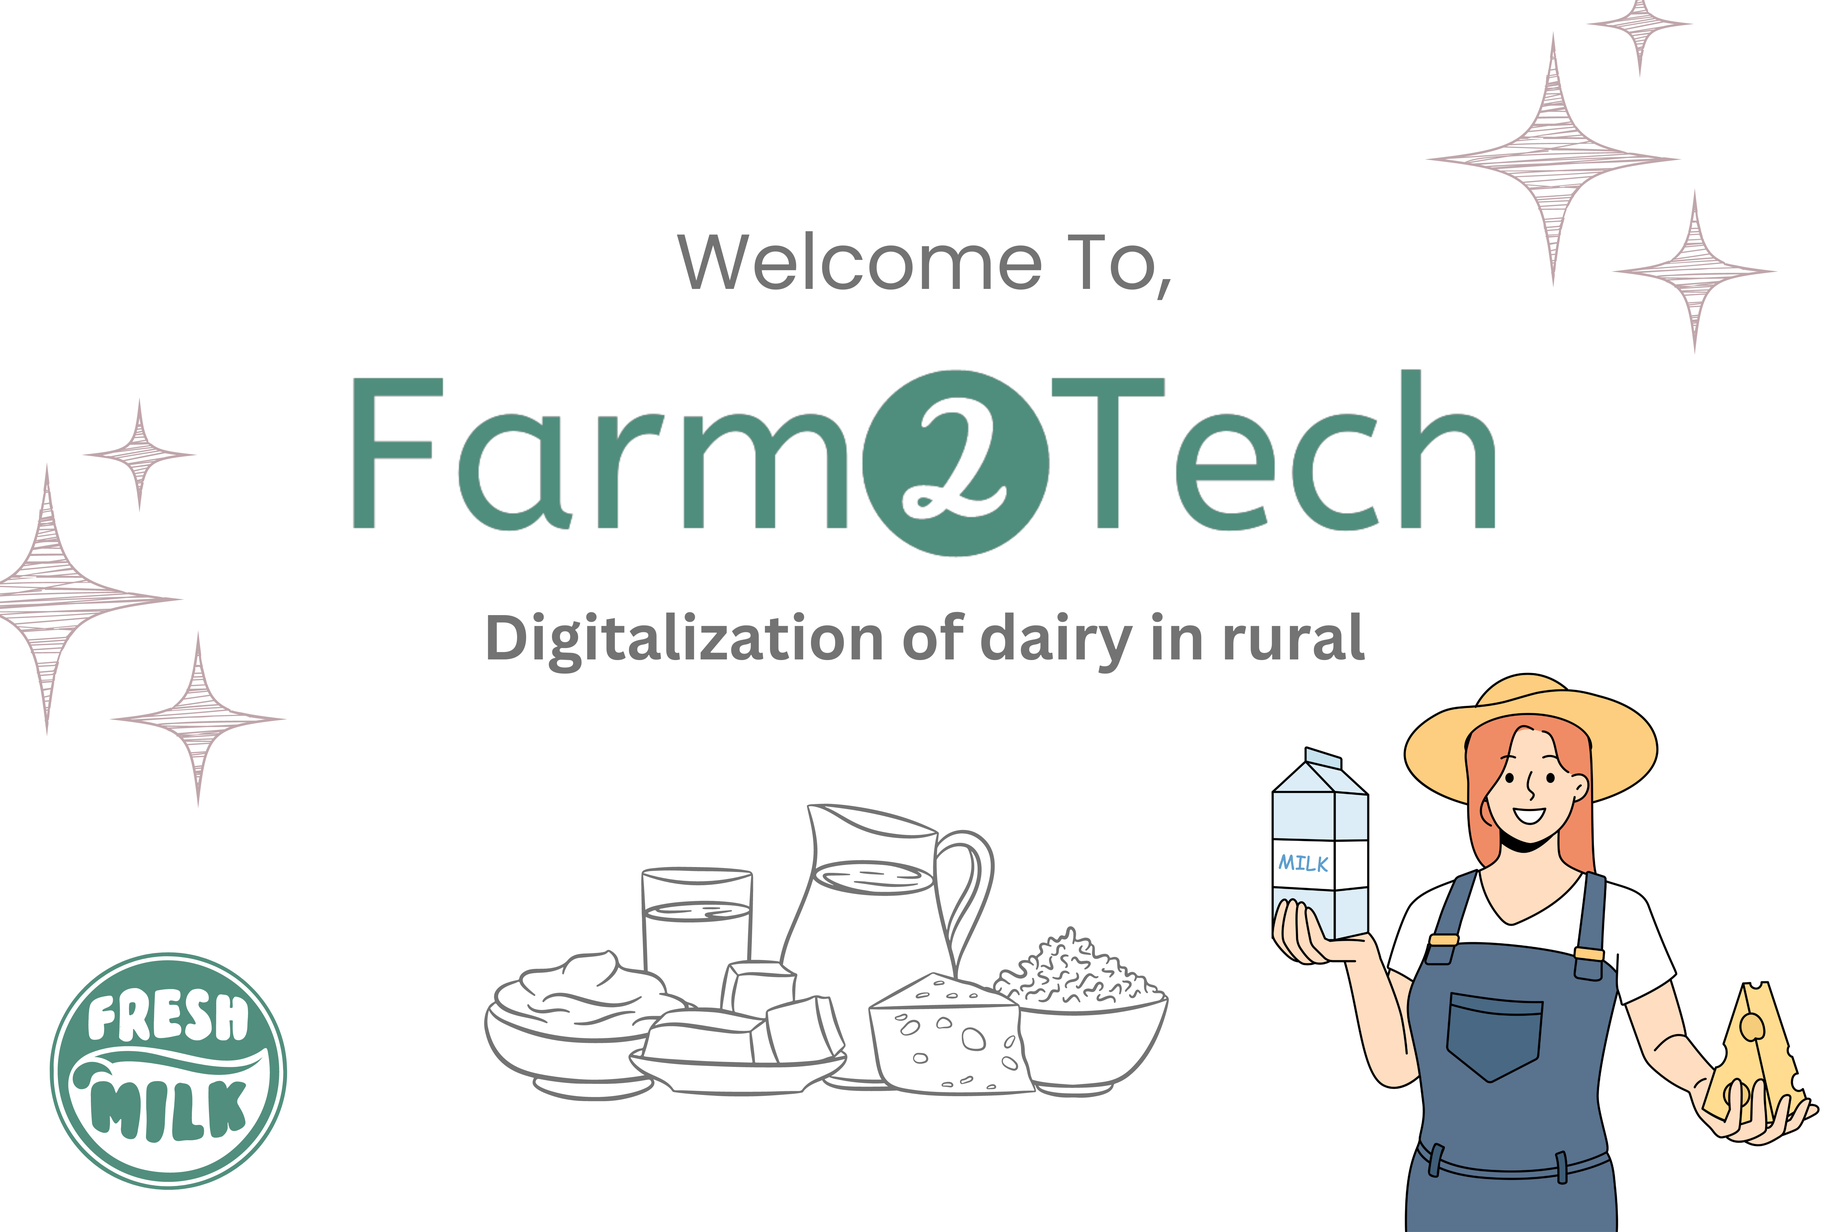
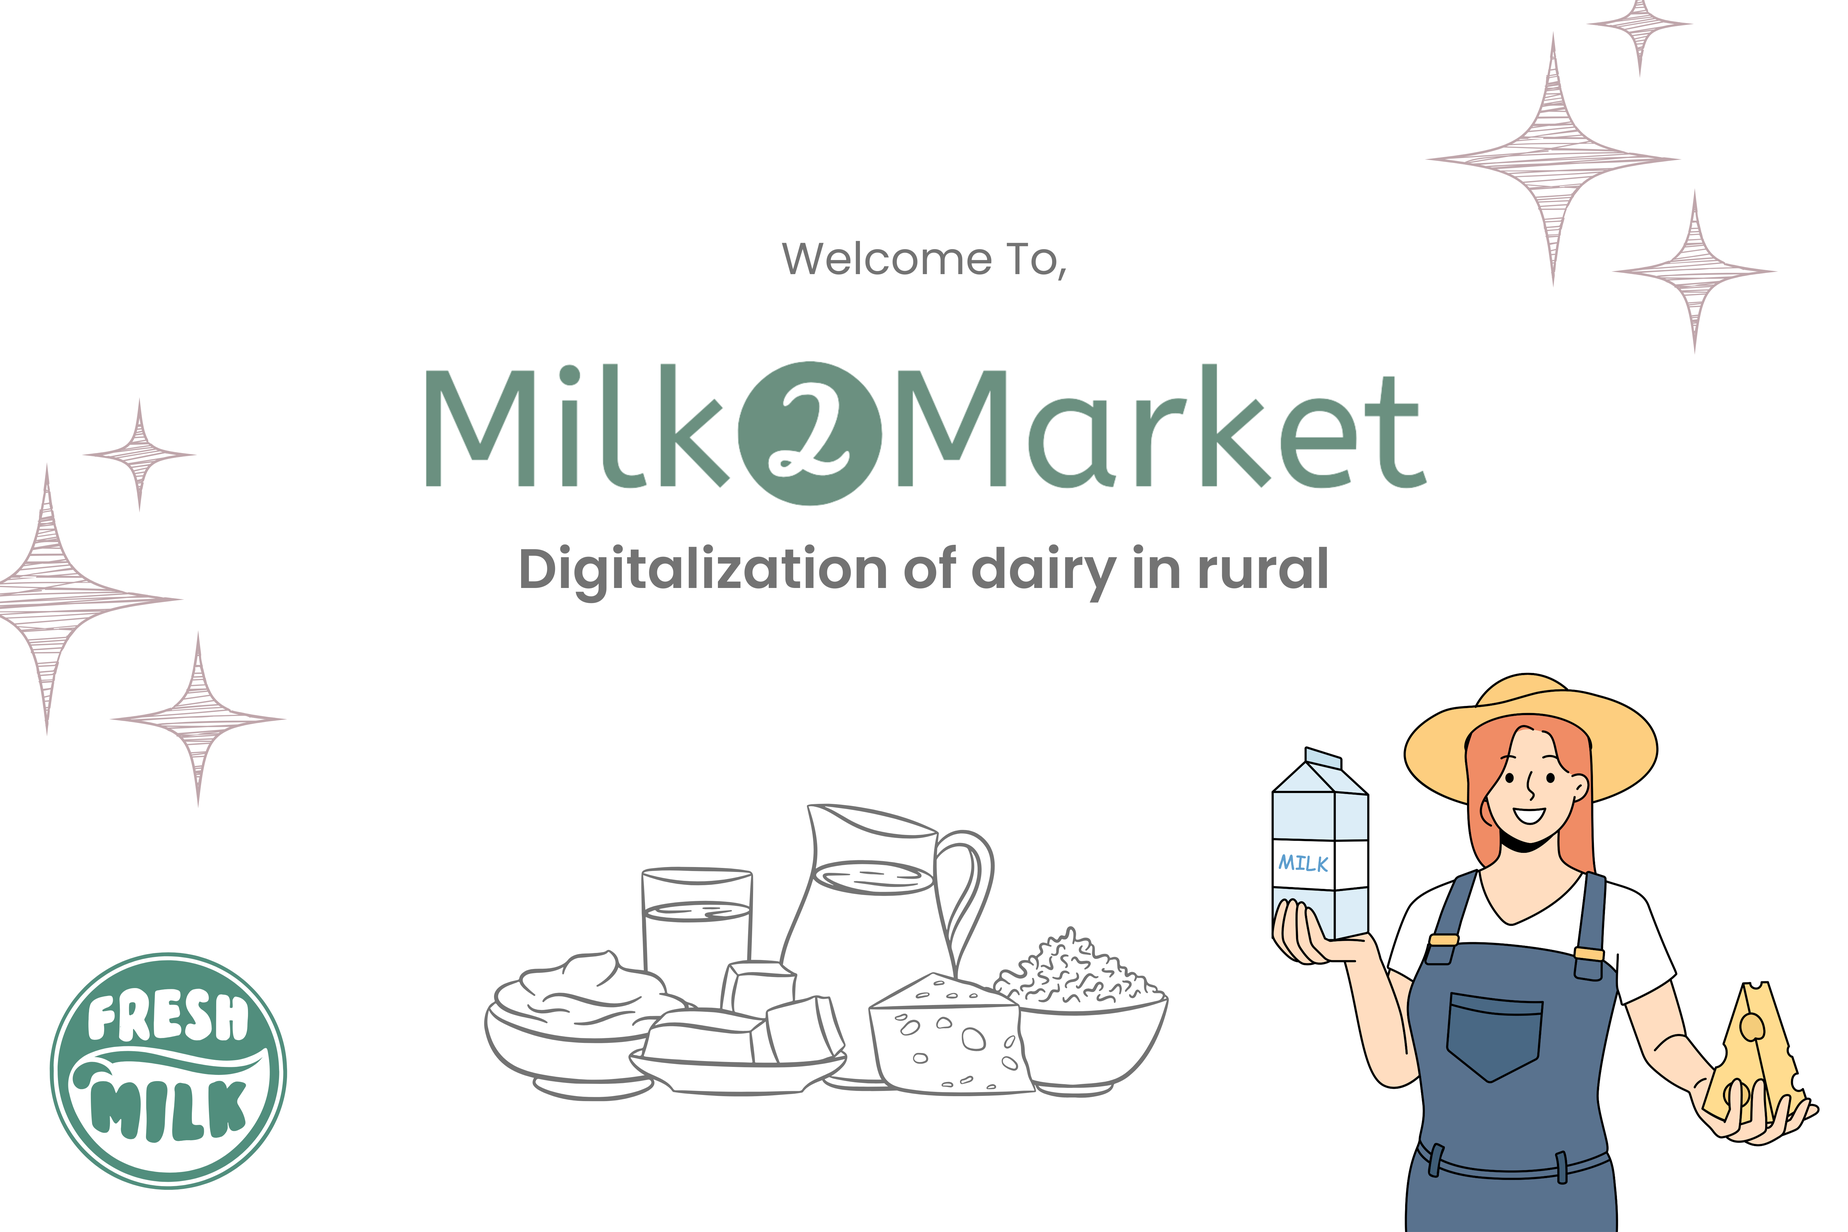
updt: change name from farm2tech -> milk2market

Changed region(s): [[0.187, 0.2812, 0.8103, 0.5625], [0.3428, 0.1875, 0.6233, 0.25]]

diff --git a/App/components/ProductCard/ProductDisplayInfoContent.js b/App/components/ProductCard/ProductDisplayInfoContent.js
@@ -6,9 +6,9 @@ export const productDisplayInfoData = [
     litre: 1,
     price: 40,
     description:
-      "Experience dairy perfection with our fresh milk. From wholesome milk to delectable dairy treats, we've got your cravings covered. Vist us for the the finest in Farm2Tech!",
+      "Experience dairy perfection with our fresh milk. From wholesome milk to delectable dairy treats, we've got your cravings covered. Vist us for the the finest in Milk2Market!",
     declaimer:
-      "Discover pure delight with our handpicked selection of premium milk products. Our commitment to quality ensures that you and your family receive only the freshest and finest dairy goodness. From classic milk cartoons to an array of Farm2Tech, our shelves are stocked with products that elevate your taste experience. Taste the difference that quality makes - visit our store today and savor the essence of Farm2Tech!",
+      "Discover pure delight with our handpicked selection of premium milk products. Our commitment to quality ensures that you and your family receive only the freshest and finest dairy goodness. From classic milk cartoons to an array of Milk2Market, our shelves are stocked with products that elevate your taste experience. Taste the difference that quality makes - visit our store today and savor the essence of Milk2Market!",
   },
   {
     id: 2,
@@ -17,9 +17,9 @@ export const productDisplayInfoData = [
     litre: 2,
     price: 50,
     description:
-      "Experience dairy perfection with our fresh ghee. From wholesome milk to delectable dairy treats, we've got your cravings covered. Vist us for the the finest in Farm2Tech!",
+      "Experience dairy perfection with our fresh ghee. From wholesome milk to delectable dairy treats, we've got your cravings covered. Vist us for the the finest in Milk2Market!",
     declaimer:
-      "Discover pure delight with our handpicked selection of premium milk products. Our commitment to quality ensures that you and your family receive only the freshest and finest dairy goodness. From classic milk cartoons to an array of Farm2Tech, our shelves are stocked with products that elevate your taste experience. Taste the difference that quality makes - visit our store today and savor the essence of Farm2Tech!",
+      "Discover pure delight with our handpicked selection of premium milk products. Our commitment to quality ensures that you and your family receive only the freshest and finest dairy goodness. From classic milk cartoons to an array of Milk2Market, our shelves are stocked with products that elevate your taste experience. Taste the difference that quality makes - visit our store today and savor the essence of Milk2Market!",
   },
   {
     id: 3,
@@ -28,9 +28,9 @@ export const productDisplayInfoData = [
     litre: 1,
     price: 120,
     description:
-      "Experience dairy perfection with our fresh paneer. From wholesome milk to delectable dairy treats, we've got your cravings covered. Vist us for the the finest in Farm2Tech!",
+      "Experience dairy perfection with our fresh paneer. From wholesome milk to delectable dairy treats, we've got your cravings covered. Vist us for the the finest in Milk2Market!",
     declaimer:
-      "Discover pure delight with our handpicked selection of premium milk products. Our commitment to quality ensures that you and your family receive only the freshest and finest dairy goodness. From classic milk cartoons to an array of Farm2Tech, our shelves are stocked with products that elevate your taste experience. Taste the difference that quality makes - visit our store today and savor the essence of Farm2Tech!",
+      "Discover pure delight with our handpicked selection of premium milk products. Our commitment to quality ensures that you and your family receive only the freshest and finest dairy goodness. From classic milk cartoons to an array of Milk2Market, our shelves are stocked with products that elevate your taste experience. Taste the difference that quality makes - visit our store today and savor the essence of Milk2Market!",
   },
   {
     id: 4,
@@ -39,9 +39,9 @@ export const productDisplayInfoData = [
     litre: 2,
     price: 100,
     description:
-      "Experience dairy perfection with our fresh yougurt. From wholesome milk to delectable dairy treats, we've got your cravings covered. Vist us for the the finest in Farm2Tech!",
+      "Experience dairy perfection with our fresh yougurt. From wholesome milk to delectable dairy treats, we've got your cravings covered. Vist us for the the finest in Milk2Market!",
     declaimer:
-      "Discover pure delight with our handpicked selection of premium milk products. Our commitment to quality ensures that you and your family receive only the freshest and finest dairy goodness. From classic milk cartoons to an array of Farm2Tech, our shelves are stocked with products that elevate your taste experience. Taste the difference that quality makes - visit our store today and savor the essence of Farm2Tech!",
+      "Discover pure delight with our handpicked selection of premium milk products. Our commitment to quality ensures that you and your family receive only the freshest and finest dairy goodness. From classic milk cartoons to an array of Milk2Market, our shelves are stocked with products that elevate your taste experience. Taste the difference that quality makes - visit our store today and savor the essence of Milk2Market!",
   },
   {
     id: 5,
@@ -50,9 +50,9 @@ export const productDisplayInfoData = [
     litre: 2,
     price: 200,
     description:
-      "Experience dairy perfection with our fresh milk. From wholesome milk to delectable dairy treats, we've got your cravings covered. Vist us for the the finest in Farm2Tech!",
+      "Experience dairy perfection with our fresh milk. From wholesome milk to delectable dairy treats, we've got your cravings covered. Vist us for the the finest in Milk2Market!",
     declaimer:
-      "Discover pure delight with our handpicked selection of premium milk products. Our commitment to quality ensures that you and your family receive only the freshest and finest dairy goodness. From classic milk cartoons to an array of Farm2Tech, our shelves are stocked with products that elevate your taste experience. Taste the difference that quality makes - visit our store today and savor the essence of Farm2Tech!",
+      "Discover pure delight with our handpicked selection of premium milk products. Our commitment to quality ensures that you and your family receive only the freshest and finest dairy goodness. From classic milk cartoons to an array of Milk2Market, our shelves are stocked with products that elevate your taste experience. Taste the difference that quality makes - visit our store today and savor the essence of Milk2Market!",
   },
   {
     id: 6,
@@ -61,9 +61,9 @@ export const productDisplayInfoData = [
     litre: 1.2,
     price: 50,
     description:
-      "Experience dairy perfection with our fresh yougurt. From wholesome milk to delectable dairy treats, we've got your cravings covered. Vist us for the the finest in Farm2Tech!",
+      "Experience dairy perfection with our fresh yougurt. From wholesome milk to delectable dairy treats, we've got your cravings covered. Vist us for the the finest in Milk2Market!",
     declaimer:
-      "Discover pure delight with our handpicked selection of premium milk products. Our commitment to quality ensures that you and your family receive only the freshest and finest dairy goodness. From classic milk cartoons to an array of Farm2Tech, our shelves are stocked with products that elevate your taste experience. Taste the difference that quality makes - visit our store today and savor the essence of Farm2Tech!",
+      "Discover pure delight with our handpicked selection of premium milk products. Our commitment to quality ensures that you and your family receive only the freshest and finest dairy goodness. From classic milk cartoons to an array of Milk2Market, our shelves are stocked with products that elevate your taste experience. Taste the difference that quality makes - visit our store today and savor the essence of Milk2Market!",
   },
   {
     id: 7,
@@ -72,9 +72,9 @@ export const productDisplayInfoData = [
     litre: 1,
     price: 150,
     description:
-      "Experience dairy perfection with our fresh ghee. From wholesome milk to delectable dairy treats, we've got your cravings covered. Vist us for the the finest in Farm2Tech!",
+      "Experience dairy perfection with our fresh ghee. From wholesome milk to delectable dairy treats, we've got your cravings covered. Vist us for the the finest in Milk2Market!",
     declaimer:
-      "Discover pure delight with our handpicked selection of premium milk products. Our commitment to quality ensures that you and your family receive only the freshest and finest dairy goodness. From classic milk cartoons to an array of Farm2Tech, our shelves are stocked with products that elevate your taste experience. Taste the difference that quality makes - visit our store today and savor the essence of Farm2Tech!",
+      "Discover pure delight with our handpicked selection of premium milk products. Our commitment to quality ensures that you and your family receive only the freshest and finest dairy goodness. From classic milk cartoons to an array of Milk2Market, our shelves are stocked with products that elevate your taste experience. Taste the difference that quality makes - visit our store today and savor the essence of Milk2Market!",
   },
   {
     id: 8,
@@ -83,8 +83,8 @@ export const productDisplayInfoData = [
     litre: 2,
     price: 200,
     description:
-      "Experience dairy perfection with our fresh paneer. From wholesome milk to delectable dairy treats, we've got your cravings covered. Vist us for the the finest in Farm2Tech!",
+      "Experience dairy perfection with our fresh paneer. From wholesome milk to delectable dairy treats, we've got your cravings covered. Vist us for the the finest in Milk2Market!",
     declaimer:
-      "Discover pure delight with our handpicked selection of premium milk products. Our commitment to quality ensures that you and your family receive only the freshest and finest dairy goodness. From classic milk cartoons to an array of Farm2Tech, our shelves are stocked with products that elevate your taste experience. Taste the difference that quality makes - visit our store today and savor the essence of Farm2Tech!",
+      "Discover pure delight with our handpicked selection of premium milk products. Our commitment to quality ensures that you and your family receive only the freshest and finest dairy goodness. From classic milk cartoons to an array of Milk2Market, our shelves are stocked with products that elevate your taste experience. Taste the difference that quality makes - visit our store today and savor the essence of Milk2Market!",
   },
 ];

diff --git a/App/components/ProductCard/SelectedProductCard.jsx b/App/components/ProductCard/SelectedProductCard.jsx
@@ -13,26 +13,27 @@ const SelectedProductCard = () => {
 
      return (
           <View style={styles.box}>
-               <View>
+               <View style={styles.productInfo}>
                     <Image source={selectedProduct.uri} style={styles.logo} />
-               </View>
-               <View
-               // style={{backgroundColor:'pink'}}
-               >
-                    <Text style={styles.text}>{selectedProduct.name}</Text>
-                    <Text style={styles.litreText}>{selectedProduct.litre}L</Text>
-                    <View style={{ flexDirection: 'row', gap: 6, marginTop: 6, }}>
-                         <Text style={styles.priceText}>{'\u20B9'} {selectedProduct.price}.0</Text>
-                         <Text style={styles.priceStrikeThroughText}>{'\u20B9'} {selectedProduct.price}.0</Text>
-                         <Text style={styles.priceOffText}>{selectedProduct.price}% off</Text>
-                    </View>
+                    <View>
+                         <Text style={styles.text}>{selectedProduct.name}</Text>
+                         <Text style={styles.litreText}>{selectedProduct.litre}L</Text>
+                         <View style={{ flexDirection: 'row', gap: 6, marginTop: 6, }}>
+                              <Text style={styles.priceText}>{'\u20B9'} {selectedProduct.price}.0</Text>
+                              <Text style={styles.priceStrikeThroughText}>{'\u20B9'} {selectedProduct.price}.0</Text>
+                              <Text style={styles.priceOffText}>{selectedProduct.price}% off</Text>
+                         </View>
 
-                    {selectedPlanType === "One Time Order" ? (
-                         <Text style={styles.offerText}>Buy and get Rs.{selectedProduct.price} in per unit</Text>
-                    ) : (
-                         <Text style={styles.offerText}>Subscribe to save {selectedProduct.price}Rs in per unit</Text>
-                    )}
+                         {selectedPlanType === "One Time Order" ? (
+                              <Text style={styles.offerText}>Buy and get Rs.{selectedProduct.price} in per unit</Text>
+                         ) : (
+                              <Text style={styles.offerText}>Subscribe to save {selectedProduct.price}Rs in per unit</Text>
+                         )}
+                    </View>
                </View>
+               {selectedPlanType === "Monthly" && (
+                    <Text style={styles.note}>Note: If you select today's date, you won’t be able to change or update the start date after the order is placed in the order edit.</Text>
+               )}
           </View>
      )
 }
@@ -50,6 +51,9 @@ const styles = StyleSheet.create({
           justifyContent: 'flex-start',
           width: '100%',
           height: 'auto',
+     },
+
+     productInfo: {
           flexDirection: 'row',
           gap: 10,
      },
@@ -104,5 +108,12 @@ const styles = StyleSheet.create({
           fontSize: 12,
           color: colors.primary,
           fontFamily: fonts.Bold,
+     },
+     note: {
+          fontSize: 12,
+          color: colors.lightText,
+          textAlign: "justify",
+          letterSpacing: 0.2,
+          paddingVertical: 10
      },
 })

diff --git a/App/components/ProductCard/ProductInfoData.js b/App/components/ProductCard/ProductInfoData.js
@@ -1,19 +1,19 @@
 export const productData = [
 
-     { name: "Farm2Tech Milk", uri: require("./../../../assets/milk.png"), litre: 1, price: 40 },
-     // { name: "Farm2Tech Ghee", uri: require("./../../../assets/ghee.png"), litre: 2, price: 50 },
-     // { name: "Farm2Tech Tofu", uri: require("./../../../assets/tofu.png"), litre: 1, price: 120 },
-     // { name: "Farm2Tech Yogurt", uri: require("./../../../assets/yogurt.png"), litre: 2, price: 100 },
+     { name: "Milk2Market Milk", uri: require("./../../../assets/milk.png"), litre: 1, price: 40 },
+     // { name: "Milk2Market Ghee", uri: require("./../../../assets/ghee.png"), litre: 2, price: 50 },
+     // { name: "Milk2Market Tofu", uri: require("./../../../assets/tofu.png"), litre: 1, price: 120 },
+     // { name: "Milk2Market Yogurt", uri: require("./../../../assets/yogurt.png"), litre: 2, price: 100 },
 
 
 ];
 
 export const productDataAndQuantity = [
 
-     { name: "Farm2Tech Milk", uri: require("./../../../assets/milk.png"), litre: 1, qty:3, price: parseFloat(40.40.toFixed(2)) },
-     // { name: "Farm2Tech Ghee", uri: require("./../../../assets/ghee.png"), litre: 2, price: 50 },
-     // { name: "Farm2Tech Tofu", uri: require("./../../../assets/tofu.png"), litre: 1, price: 120 },
-     // { name: "Farm2Tech Yogurt", uri: require("./../../../assets/yogurt.png"), litre: 2, price: 100 },
+     { name: "Milk2Market Milk", uri: require("./../../../assets/milk.png"), litre: 1, qty:3, price: parseFloat(40.40.toFixed(2)) },
+     // { name: "Milk2Market Ghee", uri: require("./../../../assets/ghee.png"), litre: 2, price: 50 },
+     // { name: "Milk2Market Tofu", uri: require("./../../../assets/tofu.png"), litre: 1, price: 120 },
+     // { name: "Milk2Market Yogurt", uri: require("./../../../assets/yogurt.png"), litre: 2, price: 100 },
 
 
 ];

diff --git a/App/Screens/AboutUs.jsx b/App/Screens/AboutUs.jsx
@@ -15,7 +15,7 @@ const AboutUs = () => {
                          style={styles.homeImg}
                     />
                     <Text style={styles.aboutUsDescription}>
-                         Farm2Tech leverages digital technologies in dairy to promote rural development by improving farmers' access to information, markets, and modern practices. The initiative aims to address challenges, explore opportunities, and assess the impact of digitalization on rural communities, while providing training to support technology adoption for sustainable growth.
+                         Milk2Market leverages digital technologies in dairy to promote rural development by improving farmers' access to information, markets, and modern practices. The initiative aims to address challenges, explore opportunities, and assess the impact of digitalization on rural communities, while providing training to support technology adoption for sustainable growth.
                     </Text>
                </View>
           </ScrollView>

diff --git a/App/components/SelectPlan/MonthlyPlan.jsx b/App/components/SelectPlan/MonthlyPlan.jsx
@@ -6,7 +6,6 @@ import CountQuantity from "../Count/CountQuantity";
 import MonthlySelectCalendar from "../Calendar/MonthlySelectCalendar";
 import { useNavigation } from "@react-navigation/native";
 import DisplayButton from "../Button/DisplayButton";
-// import MonthlyProductCard from "../ProductCard/MonthlyProductCard";
 import SelectedProductCard from "../ProductCard/SelectedProductCard";
 import { useDispatch, useSelector } from "react-redux";
 import { setMonthlyAndEndDate, setMonthlyOrderQuantity } from "../../../redux/slice/productSlice";
@@ -39,7 +38,6 @@ const MonthlyPlan = () => {
 
   return (
     <View style={styles.monthlyContainer}>
-      {/* <MonthlyProductCard/> */}
       <SelectedProductCard />
       <CountQuantity
         title={"Select per day quantity"}
@@ -81,6 +79,7 @@ export default MonthlyPlan;
 const styles = StyleSheet.create({
   monthlyContainer: {
     gap: 25,
+    paddingVertical: 15,
     marginBottom: 20,
   },
   calendarSection: {

diff --git a/App/Screens/ContactUs.jsx b/App/Screens/ContactUs.jsx
@@ -22,7 +22,7 @@ const ContactUs = () => {
                          </Text>
 
                          <Text style={styles.mailId} selectable={true}>
-                              farm2tech@gmail.com
+                              Milk2Market@gmail.com
                          </Text>
 
                          <Text style={styles.mailDescription}>
@@ -38,7 +38,7 @@ const ContactUs = () => {
                                    size={18}
                                    color={colors.lightText}
                               />
-                              <Text style={styles.addressText}>Farm2Tech, Khed, Ratnagiri, 415605</Text>
+                              <Text style={styles.addressText}>Milk2Market, Khed, Ratnagiri, 415605</Text>
                          </View>
                          <View style={styles.addressContent}>
                               <Icon

diff --git a/App/Navigation/CustomDrawer.jsx b/App/Navigation/CustomDrawer.jsx
@@ -41,8 +41,8 @@ const CustomDrawer = ({ navigation, props }) => {
               <ProfileAvatar size={80} />
             </View> */}
           <View style={styles.userInfoText}>
-            <Text style={styles.userName}>Vinit Sunil Chavan</Text>
-            <Text style={styles.memberText}>Member since 20 sep 2024</Text>
+            <Text style={styles.userName}>Profile name</Text>
+            <Text style={styles.memberText}>Member since 20 Oct 2024</Text>
           </View>
         </View>
         <View style={styles.drawerSection}>

diff --git a/App/Screens/Home.jsx b/App/Screens/Home.jsx
@@ -32,7 +32,7 @@ const Home = () => {
             <ProductDisplayCard title={"Popular Product"} />
           </View>
           <Text style={styles.copyrightText}>
-            Copyrights 2024. Farm2Tech. All Rights Reserved.
+            Copyrights 2024. Milk2Market. All Rights Reserved.
           </Text>
         </View>
       </ScrollView>

diff --git a/App/Screens/SelectPlan.jsx b/App/Screens/SelectPlan.jsx
@@ -89,6 +89,5 @@ const styles = StyleSheet.create({
     backgroundColor: colors.white,
     height: "100%",
     paddingHorizontal: 15,
-    paddingTop: 15,
   },
 });
